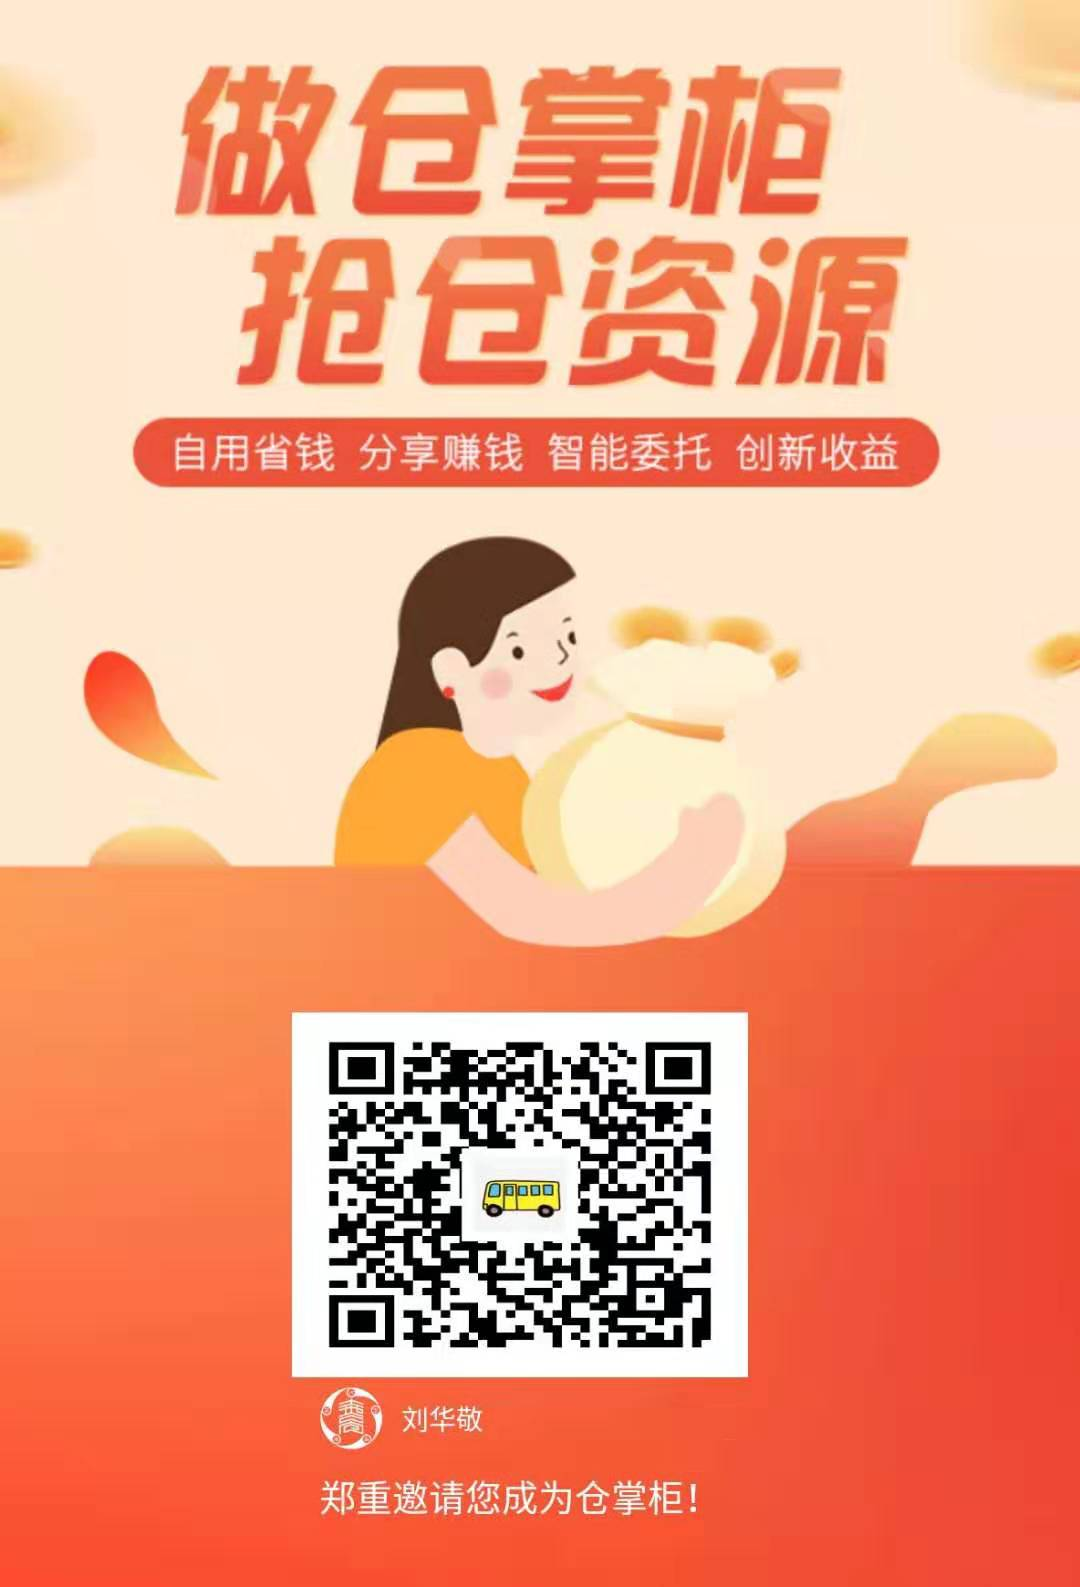
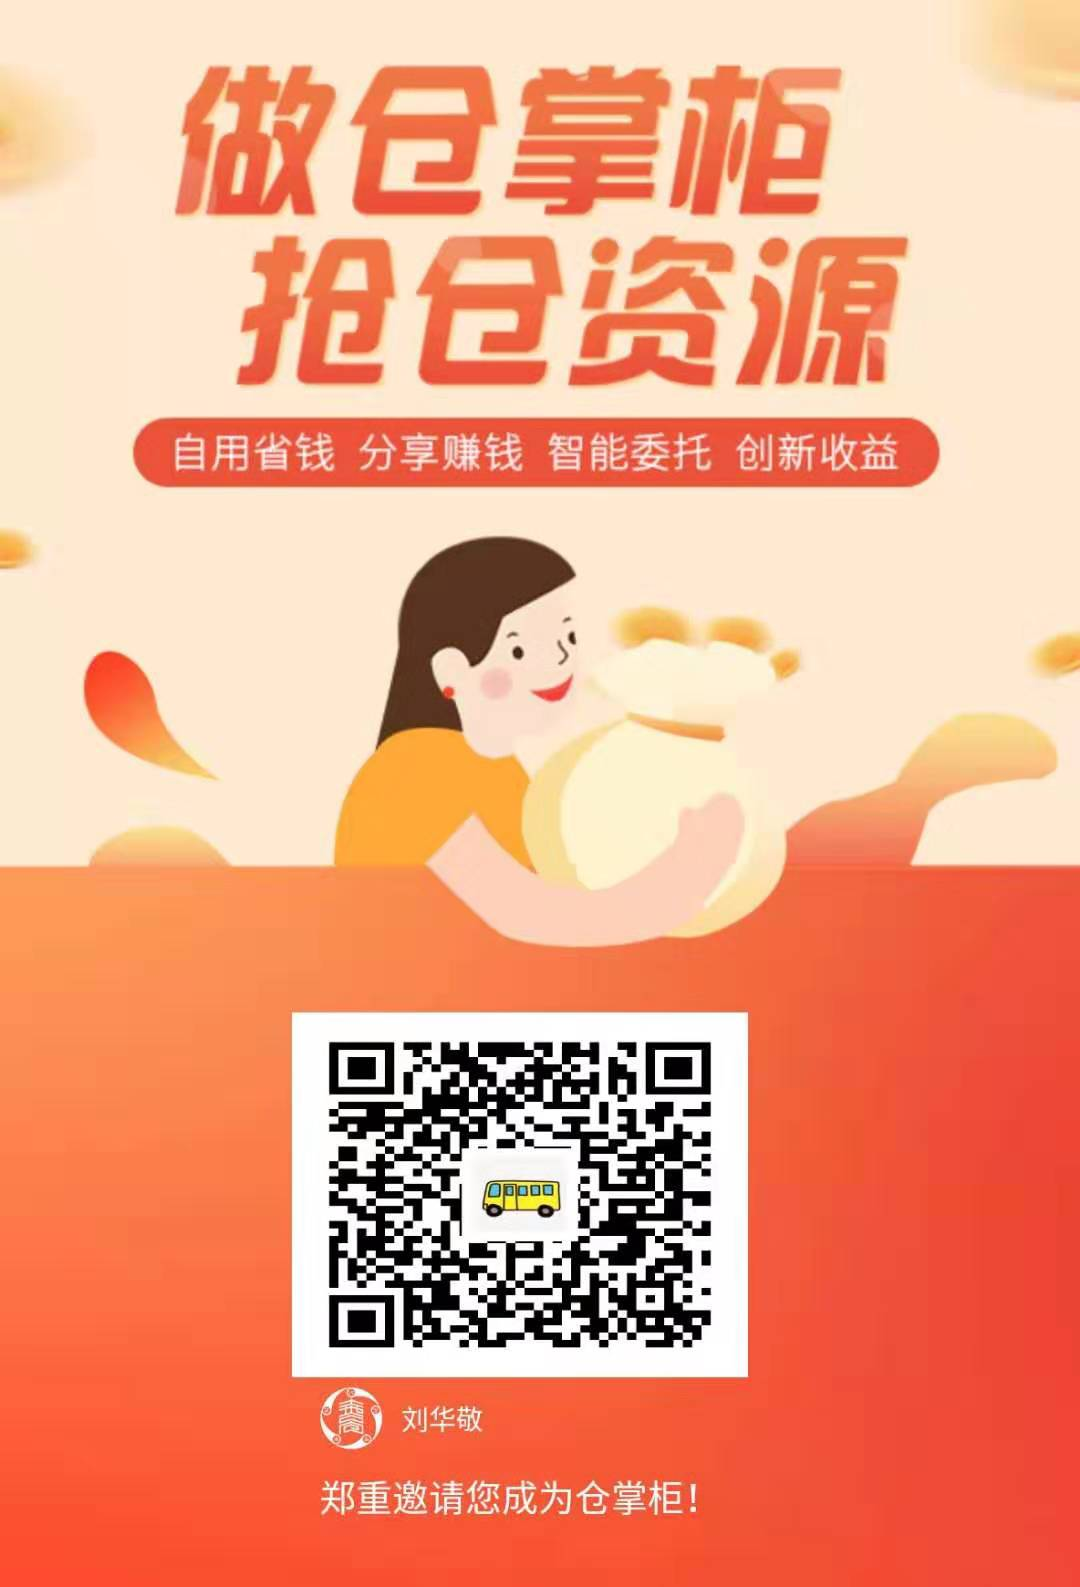
Update footer ads

Changed region(s): [[0.3056, 0.6484, 0.6722, 0.8645]]

diff --git a/src/pages/newsflash.js b/src/pages/newsflash.js
@@ -56,7 +56,6 @@ const dPointNumMax = 6;
 /*send permistion list*/
 const ama_send_perm_udid = [ 'z1ZLeHSJfan2WB1vSnG7CS8whxBagCoHiHo' ];
 
-
 class App extends Component {  
   static async getInitialProps({pathname, query, asPath, req}) {
     //console.log('getInitialProps pathname=', pathname);
@@ -260,7 +259,34 @@ class App extends Component {
         });
       }
     }
-  }
+  };
+  
+  onListItemActionClick = (action_type, asset_did) => {
+    const { session, news_type, news_to_send } = this.state;
+    const { user, token } = session;
+    
+    console.log('onListItemActionClick action_type=', action_type, 'asset_did=', asset_did);
+    
+    if(!user){
+      window.location.href = '/newsflash?openLogin=true';
+      return null;
+    }
+    
+  };
+  
+  IconText = ({ type, text, token_symbol, balance, action_type, asset_did }) => (
+    <span>
+      {balance}{token_symbol}
+      {/*<img className="list-item-action-img" src="/static/images/hashnews/ABT.png" alt="ABT" height="25" width="25" />*/}
+      <a onClick={e => {
+          this.onListItemActionClick(action_type, asset_did);
+        }}
+      > 
+        <Icon type={type} style={{ marginLeft: 8, marginRight: 8 }} />
+        {text}
+      </a>
+    </span>
+  );
   
   onPaymentClose = async result => {
     console.log('onPaymentClose');
@@ -368,6 +394,11 @@ class App extends Component {
       send_permission = false;
     }
     
+    var list_action_show = false;
+    if(!isProduction){
+      list_action_show = true;
+    }
+    
     return (
       <Layout title="HashNews">
         <Main>
@@ -442,7 +473,11 @@ class App extends Component {
               renderItem={item => (
                 <List.Item
                   key={item.hash}
-                  actions={[]}
+                  actions={list_action_show?[
+                    <this.IconText type="like-o" text={item.like_cnt} action_type='like' token_symbol={token.symbol} balance={item.like_min_rem} asset_did={item.asset_did} key="list-item-like" />,
+                    <this.IconText type="message" text={item.comment_cnt} action_type='comment' token_symbol={token.symbol} balance={item.comment_min_rem} asset_did={item.asset_did}  key="list-item-message" />,
+                    <this.IconText type="share-alt" text={item.forward_cnt} action_type='share' token_symbol={token.symbol} balance={item.forward_min_rem} asset_did={item.asset_did}  key="list-item-share" />,
+                  ]:[]}
                   extra={null}
                   className="antd-list-item"
                 >

diff --git a/api/routes/payments.js b/api/routes/payments.js
@@ -109,6 +109,8 @@ module.exports = {
                   temp_tx['like_cnt'] = doc.like_counter;
                   temp_tx['forward_cnt'] = doc.forward_counter;
                   temp_tx['comment_list'] = doc.comment_list;
+                  temp_tx['like_list'] = doc.like_list;
+                  temp_tx['forward_list'] = doc.forward_list;
                 }else{
                   temp_tx['comment_min_rem'] = 0;
                   temp_tx['like_min_rem'] = 0;
@@ -117,6 +119,8 @@ module.exports = {
                   temp_tx['like_cnt'] = 0;
                   temp_tx['forward_cnt'] = 0;
                   temp_tx['comment_list'] = [];
+                  temp_tx['like_list'] = [];
+                  temp_tx['forward_list'] = [];
                 }
 
                 return temp_tx;
@@ -191,6 +195,8 @@ module.exports = {
                   temp_tx['like_cnt'] = doc.like_counter;
                   temp_tx['forward_cnt'] = doc.forward_counter;
                   temp_tx['comment_list'] = doc.comment_list;
+                  temp_tx['like_list'] = doc.like_list;
+                  temp_tx['forward_list'] = doc.forward_list;
                 }else{
                   temp_tx['comment_min_rem'] = 0;
                   temp_tx['like_min_rem'] = 0;
@@ -199,6 +205,8 @@ module.exports = {
                   temp_tx['like_cnt'] = 0;
                   temp_tx['forward_cnt'] = 0;
                   temp_tx['comment_list'] = [];
+                  temp_tx['like_list'] = [];
+                  temp_tx['forward_list'] = [];
                 }
                 
                 return temp_tx;
@@ -256,6 +264,8 @@ module.exports = {
                   temp_tx['like_cnt'] = doc.like_counter;
                   temp_tx['forward_cnt'] = doc.forward_counter;
                   temp_tx['comment_list'] = doc.comment_list;
+                  temp_tx['like_list'] = doc.like_list;
+                  temp_tx['forward_list'] = doc.forward_list;
                 }else{
                   temp_tx['comment_min_rem'] = 0;
                   temp_tx['like_min_rem'] = 0;
@@ -264,6 +274,8 @@ module.exports = {
                   temp_tx['like_cnt'] = 0;
                   temp_tx['forward_cnt'] = 0;
                   temp_tx['comment_list'] = [];
+                  temp_tx['like_list'] = [];
+                  temp_tx['forward_list'] = [];
                 }
                 
                 return temp_tx;

diff --git a/api/models/newsflash.js b/api/models/newsflash.js
@@ -25,6 +25,8 @@ const NewsflashSchema = new mongoose.Schema({
   like_counter: { type: Number, default: 0 },
   forward_counter: { type: Number, default: 0 },
   comment_list: { type: Array, default: [] },
+  like_list: { type: Array, default: [] },
+  forward_list: { type: Array, default: [] },
   createdAt: { type: Date },
   updatedAt: { type: Date },
 });

diff --git a/src/components/footer.js b/src/components/footer.js
@@ -89,7 +89,7 @@ export default function Footer() {
       items: [
         {
           title: '大地云仓',
-          link: 'http://wap.bb.dadiyuncang.com/pages/center/QRcode?userid=13777&username=%E5%88%98%E5%8D%8E%E6%95%AC',
+          link: 'http://wap.bb.dadiyuncang.com/pages/users/register?recommend=11826',
         },
       ],
     },

diff --git a/api/routes/newsflash.js b/api/routes/newsflash.js
@@ -63,6 +63,8 @@ async function NewsflashAdd(fields){
     like_counter: 0,
     forward_counter: 0,
     comment_list: [],
+    like_list: [],
+    forward_list: [],
     createdAt: Date(),
   });
   await new_doc.save();
